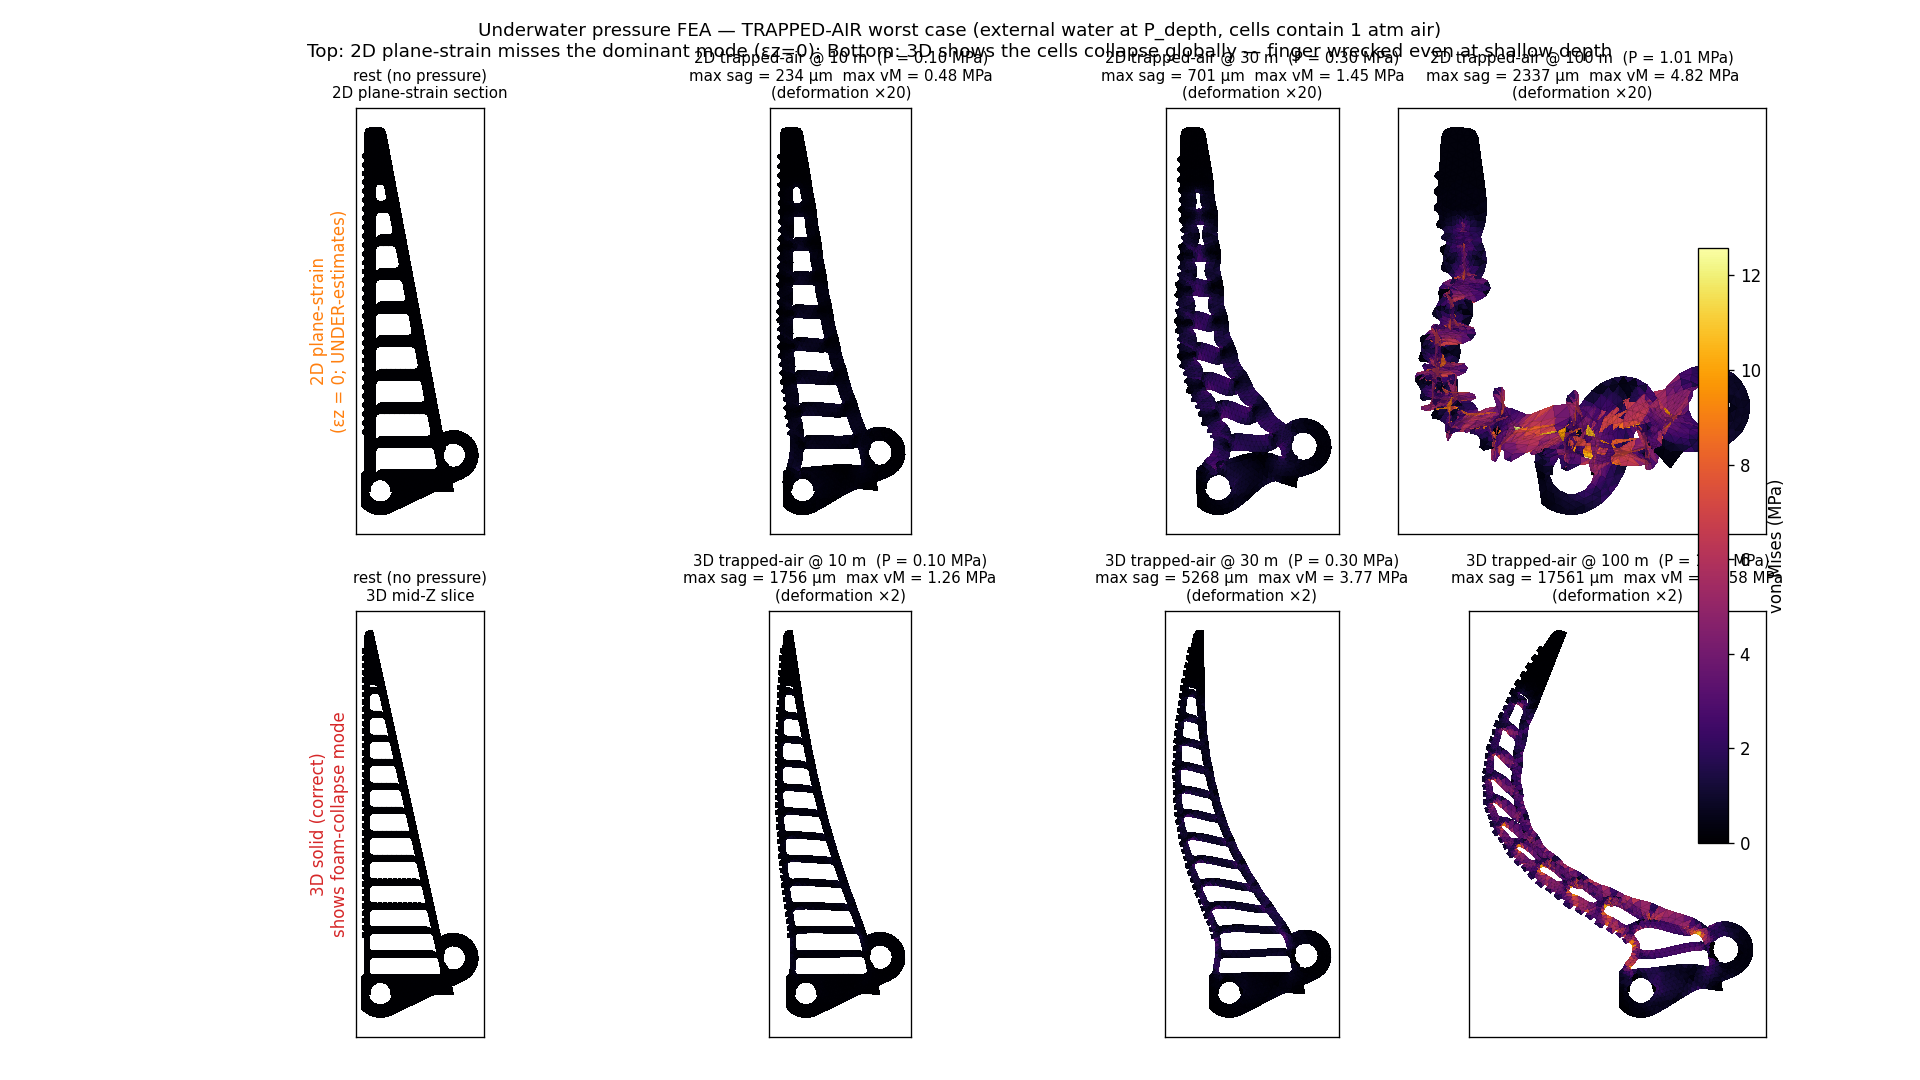
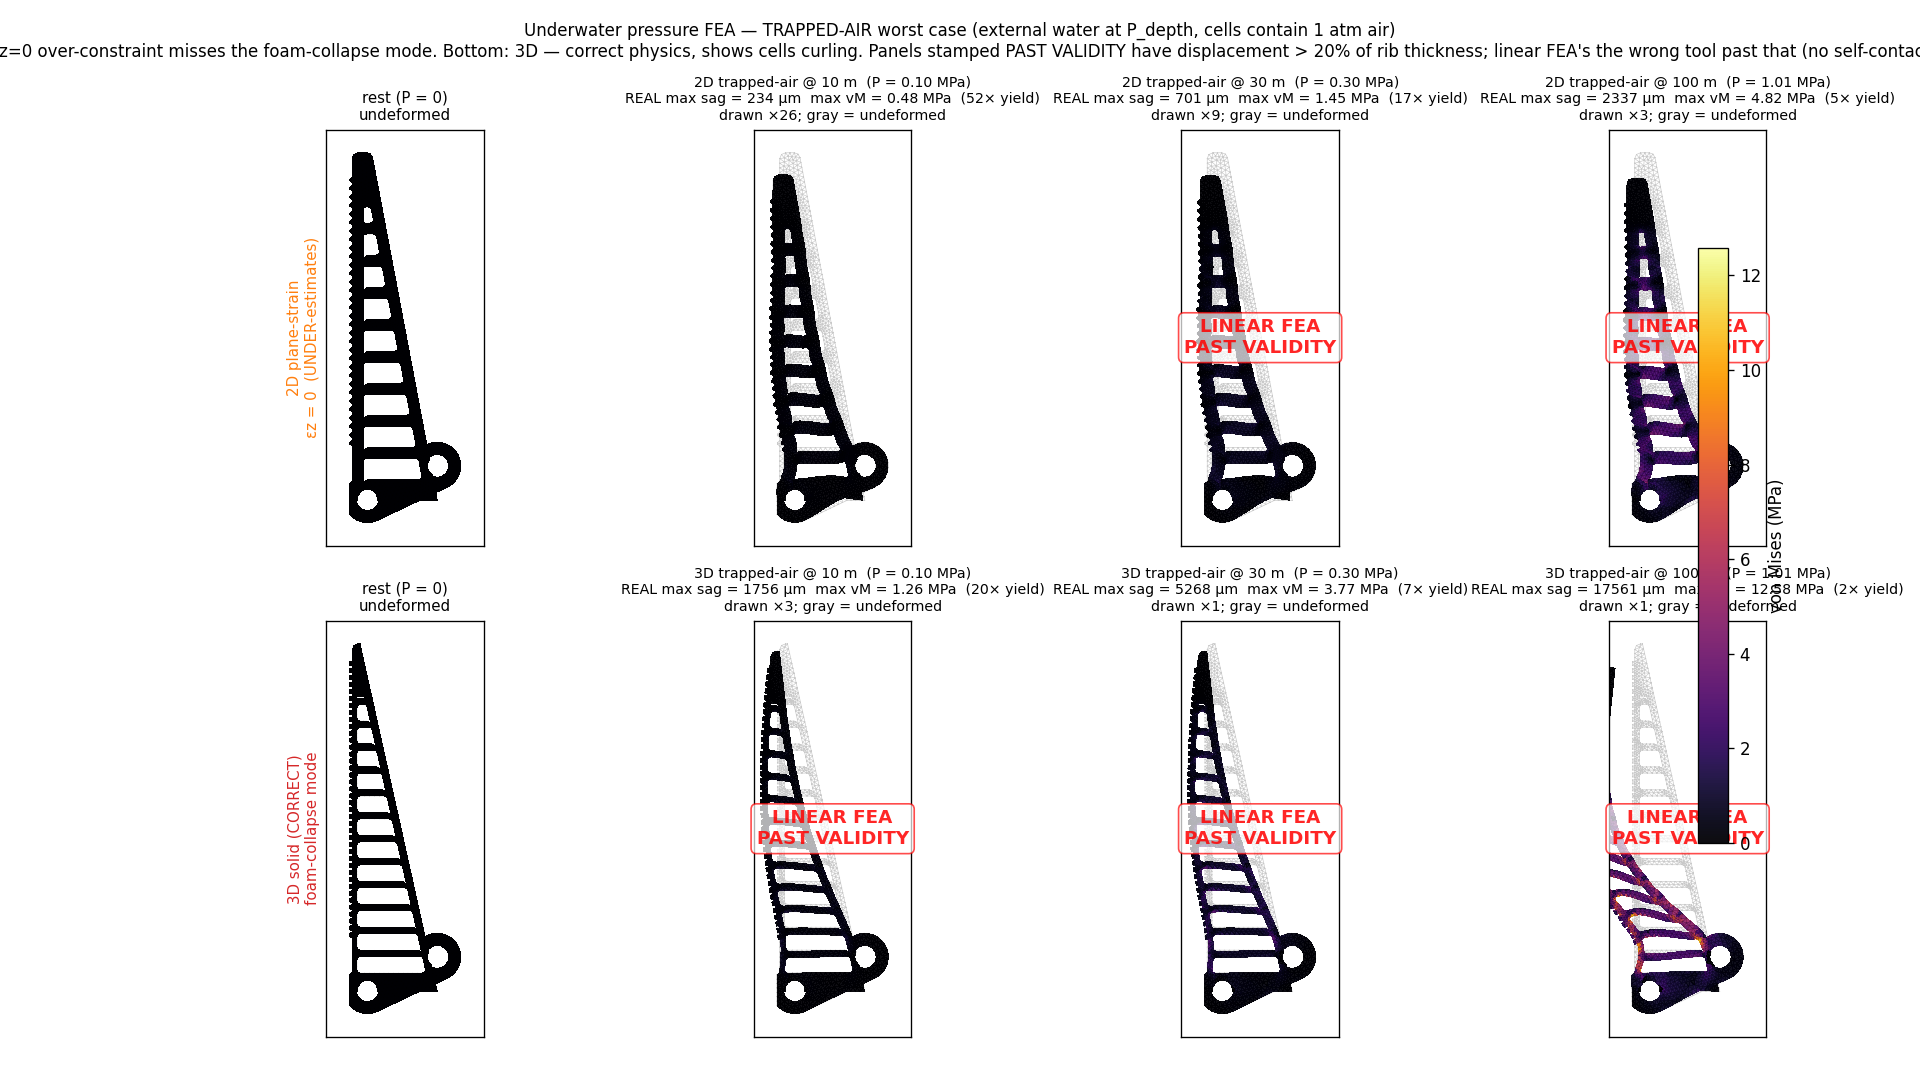
renders: honest underwater FEA visualization (same physics, better viz)
The previous renders multiplied sub-mm displacements by x200 (flooded)
and x20 (2D crush) which made the visualization mislead — the flooded
@user panel looked like the finger had flopped over even though the
real displacement was 0.97 mm on a 90 mm blade, and the 2D crush @user
panel rendered the past-linear-validity solution as spaghetti.

Same FEA solves, no physics changed. Four visualization fixes:

1. Gray undeformed rest-mesh overlaid behind every panel for reference.
   The viewer can see directly how much the colored deformed mesh has
   moved vs the rest position — no need to mentally subtract a x200.

2. Per-panel magnification picked so visible deformation is ~5-6 mm
   (a manageable fraction of the 90 mm blade). Each panel shows its
   mag factor and the REAL displacement in micrometres so the viewer
   knows what's drawn vs what physically happens.

3. Axis limits fixed to the rest bounding box (+ small margin). A
   deformed mesh that exits the box is itself a visual signal that
   the result is past sane.

4. 'LINEAR FEA PAST VALIDITY' red stamp on any panel where max
   displacement exceeds ~20% of the smallest feature thickness
   (1.6 mm rib, so 0.3 mm displacement). The 2D crush @user and
   100m and all 3D crush panels carry this stamp — linear elasticity
   stops being meaningful past that point (no self-contact, no gas
   backpressure).

Title text in each panel now includes REAL displacement + yield-margin
[…]

Changed region(s): [[0.0, 0.0, 1.0, 0.9472]]

diff --git a/fea/scripts/render_underwater_fields.py b/fea/scripts/render_underwater_fields.py
@@ -173,18 +173,34 @@ def solve_2d(P_external, mode, mesh, clamp_nodes, outer_f, inner_f):
     return ux, uy, vm
 
 
-def plot_2d_panel(ax, mesh, ux, uy, vm, mag, title, vmin, vmax):
+def plot_2d_panel(ax, mesh, ux, uy, vm, mag, title, vmin, vmax,
+                  past_validity=False):
+    """Plot deformed mesh colored by vM with undeformed outline overlaid in gray.
+
+    Setting `past_validity=True` adds a watermark so the viewer knows the
+    panel is showing a linear-FEA result that's outside its validity envelope.
+    """
     p = mesh.p; t = mesh.t
+    tri_rest = Triangulation(p[0], p[1], t.T)
+    # undeformed outline (gray, no fill)
+    ax.triplot(tri_rest, color="0.7", lw=0.4, alpha=0.7)
+    # deformed mesh, colored by vM
     xy_def = p.copy()
     xy_def[0] += mag * ux
     xy_def[1] += mag * uy
-    tri = Triangulation(xy_def[0], xy_def[1], t.T)
-    pc = ax.tripcolor(tri, facecolors=vm, cmap="inferno",
-                       vmin=vmin, vmax=vmax, edgecolors="none")
-    ax.triplot(tri, color="black", lw=0.2, alpha=0.3)
+    tri_def = Triangulation(xy_def[0], xy_def[1], t.T)
+    pc = ax.tripcolor(tri_def, facecolors=vm, cmap="inferno",
+                       vmin=vmin, vmax=vmax, edgecolors="none", alpha=0.95)
+    ax.triplot(tri_def, color="black", lw=0.2, alpha=0.4)
     ax.set_aspect("equal")
     ax.set_xticks([]); ax.set_yticks([])
-    ax.set_title(title, fontsize=9)
+    ax.set_title(title, fontsize=8.5)
+    if past_validity:
+        ax.text(0.5, 0.5, "LINEAR FEA\nPAST VALIDITY",
+                transform=ax.transAxes, ha="center", va="center",
+                fontsize=11, color="red", weight="bold", alpha=0.85,
+                bbox=dict(facecolor="white", alpha=0.7, edgecolor="red",
+                           boxstyle="round,pad=0.3"))
     return pc
 
 
@@ -216,47 +232,58 @@ def run_3d_field(P_depth):
 
 
 def plot_3d_midz_slice(ax, p2d, tris, nodes, u, vm_tet, N2, mag,
-                       title, vmin, vmax):
+                       title, vmin, vmax, past_validity=False):
     """Mid-Z slice rendered as the 2D triangulation deformed by the
-    mid-layer displacement and colored by per-tri average vM."""
+    mid-layer displacement and colored by per-tri average vM. The
+    undeformed cross-section outline is overlaid in gray for reference."""
     n_layers = nodes.shape[0] // N2 - 1
     mid_layer = n_layers // 2
     base = mid_layer * N2
     ux = u[3 * (base + np.arange(N2)) + 0]
     uy = u[3 * (base + np.arange(N2)) + 1]
-    # per-tri vM at mid-Z: average over tets whose centroid is at mid-Z layer
-    tet_z = nodes[:, 2][np.array(np.arange(nodes.shape[0]))]
-    tet_z_centroid = nodes[:, 2][np.array(np.arange(nodes.shape[0]))]  # placeholder
-    # easier: just project vM onto 2D tris by aggregating tets at this layer
-    # for each 2D tri, find all 3 tets in the mid-Z prism layer and average vM
+    # per-tri vM at mid-Z: average over the 3 tets of each prism in mid-Z layer
     n_tets_per_prism = 3
     tets_per_layer = tris.shape[0] * n_tets_per_prism
     tets_start = mid_layer * tets_per_layer
-    tets_end = (mid_layer + 1) * tets_per_layer
     vm_tris = np.zeros(tris.shape[0])
     for ti in range(tris.shape[0]):
         vm_tris[ti] = vm_tet[tets_start + ti * 3:tets_start + (ti + 1) * 3].mean()
-    # deformed 2D positions at mid-Z
-    xy_def = p2d.copy().T  # (2, N2)
+    # undeformed outline (gray)
+    tri_rest = Triangulation(p2d[:, 0], p2d[:, 1], tris)
+    ax.triplot(tri_rest, color="0.7", lw=0.4, alpha=0.7)
+    # deformed mesh
+    xy_def = p2d.copy().T
     xy_def[0] += mag * ux
     xy_def[1] += mag * uy
-    tri = Triangulation(xy_def[0], xy_def[1], tris)
-    pc = ax.tripcolor(tri, facecolors=vm_tris, cmap="inferno",
-                       vmin=vmin, vmax=vmax, edgecolors="none")
-    ax.triplot(tri, color="black", lw=0.2, alpha=0.3)
+    tri_def = Triangulation(xy_def[0], xy_def[1], tris)
+    pc = ax.tripcolor(tri_def, facecolors=vm_tris, cmap="inferno",
+                       vmin=vmin, vmax=vmax, edgecolors="none", alpha=0.95)
+    ax.triplot(tri_def, color="black", lw=0.2, alpha=0.4)
     ax.set_aspect("equal")
     ax.set_xticks([]); ax.set_yticks([])
-    ax.set_title(title, fontsize=9)
+    ax.set_title(title, fontsize=8.5)
+    if past_validity:
+        ax.text(0.5, 0.5, "LINEAR FEA\nPAST VALIDITY",
+                transform=ax.transAxes, ha="center", va="center",
+                fontsize=11, color="red", weight="bold", alpha=0.85,
+                bbox=dict(facecolor="white", alpha=0.7, edgecolor="red",
+                           boxstyle="round,pad=0.3"))
     return pc
 
 
 # =============== render sheets ===============
 def render_pressure_sheet():
-    """FLOODED case — show the rest mesh and deformed at 3 depths."""
+    """FLOODED case — show the rest mesh and deformed at 3 depths.
+
+    Honest visualization: gray rest mesh outline OVERLAID on every panel
+    so the viewer sees how small the real deformation is. Per-panel
+    magnification is picked so each panel shows ~5 mm of visible
+    deformation (roughly 1/20 of the 90 mm blade) — comparable across
+    depths without faking the physics.
+    """
     mesh, lm, clamp = load_mesh_2d()
     outer_f, inner_f = classify_2d_loops(mesh)
-    print(f"flooded sheet: mesh {mesh.p.shape[1]} nodes, "
-          f"{mesh.t.shape[1]} tris")
+    print(f"flooded sheet: mesh {mesh.p.shape[1]} nodes")
     cases = []
     for depth in DEPTHS_2D_FLOOD:
         P = RHO_G * depth
@@ -268,34 +295,44 @@ def render_pressure_sheet():
         print(f"  flooded {depth:5.0f} m: max |u| = {disp.max()*1000:.1f} μm, "
               f"max vM = {vm.max():.4f} MPa")
     vmax = max(c["max_vm"] for c in cases)
-    # 1 row × 4 cols: rest + 3 depths
+    # pick magnification so max visible deformation = TARGET_VISIBLE mm
+    TARGET_VISIBLE_MM = 5.0
+    for c in cases:
+        c["mag"] = max(1, int(round(TARGET_VISIBLE_MM * 1000 / c["max_disp_um"])))
+
     fig, axs = plt.subplots(1, 4, figsize=(16, 5))
     p = mesh.p; t = mesh.t
+    # axis limits = rest bbox + margin
+    x_pad = 5; y_pad = 5
+    xlim = (p[0].min() - x_pad, p[0].max() + x_pad)
+    ylim = (p[1].min() - y_pad, p[1].max() + y_pad)
+
     tri0 = Triangulation(p[0], p[1], t.T)
     axs[0].tripcolor(tri0, facecolors=np.zeros(t.shape[1]),
                       cmap="inferno", vmin=0, vmax=vmax, edgecolors="none")
-    axs[0].triplot(tri0, color="black", lw=0.2, alpha=0.4)
+    axs[0].triplot(tri0, color="black", lw=0.2, alpha=0.5)
     axs[0].set_aspect("equal"); axs[0].set_xticks([]); axs[0].set_yticks([])
-    axs[0].set_title("rest (no pressure)\nundeformed Fin Ray section", fontsize=9)
-    # deformation is tiny so magnify it ×200 for visibility
-    MAG = 200
+    axs[0].set_xlim(xlim); axs[0].set_ylim(ylim)
+    axs[0].set_title("rest (P = 0)\nundeformed", fontsize=9)
+
     for i, c in enumerate(cases, start=1):
-        pc = plot_2d_panel(axs[i], mesh, c["ux"], c["uy"], c["vm"], MAG,
-                            f"flooded @ {c['depth']:.0f} m  "
-                            f"(P = {c['P']:.2f} MPa)\n"
-                            f"max |u| = {c['max_disp_um']:.0f} μm  "
-                            f"max vM = {c['max_vm']:.3f} MPa\n"
-                            f"(deformation ×{MAG} for visibility)",
-                            vmin=0, vmax=vmax)
-    # one colorbar
+        title = (f"flooded @ {c['depth']:.0f} m  (P = {c['P']:.2f} MPa)\n"
+                 f"REAL max |u| = {c['max_disp_um']:.0f} μm  "
+                 f"({100 * c['max_disp_um']/1000/90:.2f} % of blade length)\n"
+                 f"max vM = {c['max_vm']:.3f} MPa  "
+                 f"({TPU_YIELD/c['max_vm']:.0f}× yield margin)\n"
+                 f"deformation drawn ×{c['mag']}; gray = undeformed")
+        pc = plot_2d_panel(axs[i], mesh, c["ux"], c["uy"], c["vm"], c["mag"],
+                            title, vmin=0, vmax=vmax)
+        axs[i].set_xlim(xlim); axs[i].set_ylim(ylim)
     cbar = fig.colorbar(pc, ax=axs.ravel().tolist(), fraction=0.02,
                          label="von Mises (MPa)")
     fig.suptitle("Underwater pressure FEA — FLOODED case "
-                 "(water inside Fin Ray cells AND outside skin, "
-                 "at the same pressure)\n"
-                 "Bulk hydrostatic stress σ = −P·I → von Mises ≈ 0 everywhere; "
-                 "finger just uniformly shrinks",
-                 fontsize=11)
+                 "(water inside Fin Ray cells AND outside skin at the same pressure)\n"
+                 "Bulk hydrostatic state σ = −P·I → vM ≈ 0; finger uniformly shrinks. "
+                 "Stress concentration shown is at the clamp pin-bore (where TPU "
+                 "is prevented from shrinking by the rigid pin).",
+                 fontsize=10.5)
     fig.subplots_adjust(top=0.84, bottom=0.04, left=0.02, right=0.92,
                         wspace=0.05)
     fp = os.path.join(PICS, "underwater_pressure_FEA.png")
@@ -306,7 +343,19 @@ def render_pressure_sheet():
 
 def render_crush_sheet():
     """TRAPPED-AIR case — show 2D plane-strain (under-estimate) + 3D
-    mid-Z slice (correct) at each depth side-by-side."""
+    mid-Z slice (correct) at each depth side-by-side.
+
+    Honest visualization rules:
+      - undeformed rest mesh always overlaid in gray
+      - per-row magnification picked so visible deformation is comparable
+      - panels where linear FEA is past its validity envelope (max
+        displacement > ~20% of smallest feature thickness, ~0.3 mm for
+        a 1.6 mm rib) are stamped "LINEAR FEA PAST VALIDITY"
+      - axis limits = rest bbox (deformation that exits the box is a
+        visual cue that the linear-elastic prediction is unphysical)
+    """
+    LINEAR_VALID_LIMIT_UM = 300.0   # ~20% of 1.6 mm rib wall
+
     mesh, lm, clamp = load_mesh_2d()
     outer_f, inner_f = classify_2d_loops(mesh)
     print(f"crush sheet: mesh {mesh.p.shape[1]} nodes")
@@ -315,83 +364,111 @@ def render_crush_sheet():
     for depth in DEPTHS_2D_CRUSH:
         P = RHO_G * depth
         ux, uy, vm = solve_2d(P, "trapped_air", mesh, clamp, outer_f, inner_f)
+        max_disp = float(np.hypot(ux, uy).max() * 1000)
         cases_2d.append(dict(depth=depth, P=P, ux=ux, uy=uy, vm=vm,
-                             max_disp_um=float(np.hypot(ux, uy).max() * 1000),
-                             max_vm=float(vm.max())))
-        print(f"  2D crush @ {depth:5.0f} m: max |u| = "
-              f"{cases_2d[-1]['max_disp_um']:.1f} μm, "
-              f"max vM = {cases_2d[-1]['max_vm']:.3f} MPa")
+                             max_disp_um=max_disp,
+                             max_vm=float(vm.max()),
+                             past_validity=max_disp > LINEAR_VALID_LIMIT_UM))
+        print(f"  2D crush @ {depth:5.0f} m: max |u| = {max_disp:.1f} μm, "
+              f"vM = {vm.max():.3f} MPa "
+              f"{'(past validity)' if max_disp > LINEAR_VALID_LIMIT_UM else ''}")
     # ---- 3D trapped-air ----
     cases_3d = []
     for depth in DEPTHS_3D_CRUSH:
         P = RHO_G * depth
         nodes, tets, u, vm_tet, N2, p2d_3d, tris_3d = run_3d_field(P)
         disp = np.linalg.norm(u.reshape(-1, 3), axis=1)
+        max_disp = float(disp.max() * 1000)
         cases_3d.append(dict(depth=depth, P=P, nodes=nodes, tets=tets,
                               u=u, vm_tet=vm_tet, N2=N2,
                               p2d=p2d_3d, tris=tris_3d,
-                              max_disp_um=float(disp.max() * 1000),
-                              max_vm=float(vm_tet.max())))
-        print(f"  3D crush @ {depth:5.0f} m: max |u| = "
-              f"{cases_3d[-1]['max_disp_um']:.1f} μm, "
-              f"max vM = {cases_3d[-1]['max_vm']:.3f} MPa")
+                              max_disp_um=max_disp,
+                              max_vm=float(vm_tet.max()),
+                              past_validity=max_disp > LINEAR_VALID_LIMIT_UM))
+        print(f"  3D crush @ {depth:5.0f} m: max |u| = {max_disp:.1f} μm, "
+              f"vM = {vm_tet.max():.3f} MPa "
+              f"{'(past validity)' if max_disp > LINEAR_VALID_LIMIT_UM else ''}")
 
-    # ---- common color scale per row (so colors are comparable across depths) ----
-    vmax_2d = max(c["max_vm"] for c in cases_2d)
-    vmax_3d = max(c["max_vm"] for c in cases_3d)
+    # color scales — use the SMALLEST-depth max so colors are comparable
+    # within the in-validity range; clip beyond
+    vmax_2d = max(c["max_vm"] for c in cases_2d if not c["past_validity"]) \
+        if any(not c["past_validity"] for c in cases_2d) else max(c["max_vm"] for c in cases_2d)
+    vmax_3d = max(c["max_vm"] for c in cases_3d if not c["past_validity"]) \
+        if any(not c["past_validity"] for c in cases_3d) else max(c["max_vm"] for c in cases_3d)
+    vmax_shared = max(vmax_2d, vmax_3d)
+
+    # picks magnification to give TARGET_VISIBLE_MM of visible deformation
+    TARGET_VISIBLE_MM = 6.0
+    for c in cases_2d + cases_3d:
+        if c["max_disp_um"] > 1e-9:
+            c["mag"] = max(1, int(round(TARGET_VISIBLE_MM * 1000 / c["max_disp_um"])))
+        else:
+            c["mag"] = 1
 
     fig, axs = plt.subplots(2, 4, figsize=(16, 9))
-    # row 0: 2D plane-strain — rest + 3 depths
     p = mesh.p; t = mesh.t
+    p2d_3d = cases_3d[0]["p2d"]; tris_3d = cases_3d[0]["tris"]
+    # axis limits = rest bbox + margin (same for both rows, since same outline)
+    x_pad = 6; y_pad = 6
+    xlim = (p[0].min() - x_pad, p[0].max() + x_pad)
+    ylim = (p[1].min() - y_pad, p[1].max() + y_pad)
+
+    # row 0: 2D plane-strain
     tri0 = Triangulation(p[0], p[1], t.T)
     axs[0, 0].tripcolor(tri0, facecolors=np.zeros(t.shape[1]),
-                        cmap="inferno", vmin=0, vmax=vmax_2d, edgecolors="none")
-    axs[0, 0].triplot(tri0, color="black", lw=0.2, alpha=0.4)
+                        cmap="inferno", vmin=0, vmax=vmax_shared, edgecolors="none")
+    axs[0, 0].triplot(tri0, color="black", lw=0.2, alpha=0.5)
     axs[0, 0].set_aspect("equal")
     axs[0, 0].set_xticks([]); axs[0, 0].set_yticks([])
-    axs[0, 0].set_title("rest (no pressure)\n2D plane-strain section", fontsize=9)
-    MAG_2D = 20
+    axs[0, 0].set_xlim(xlim); axs[0, 0].set_ylim(ylim)
+    axs[0, 0].set_title("rest (P = 0)\nundeformed", fontsize=9)
+    axs[0, 0].set_ylabel("2D plane-strain\nεz = 0  (UNDER-estimates)",
+                          fontsize=9, color="#ff7f0e")
     for i, c in enumerate(cases_2d, start=1):
-        pc2 = plot_2d_panel(axs[0, i], mesh, c["ux"], c["uy"], c["vm"], MAG_2D,
-                             f"2D trapped-air @ {c['depth']:.0f} m  "
-                             f"(P = {c['P']:.2f} MPa)\n"
-                             f"max sag = {c['max_disp_um']:.0f} μm  "
-                             f"max vM = {c['max_vm']:.2f} MPa\n"
-                             f"(deformation ×{MAG_2D})",
-                             vmin=0, vmax=vmax_2d)
-    axs[0, 0].set_ylabel("2D plane-strain\n(εz = 0; UNDER-estimates)",
-                         fontsize=10, color="#ff7f0e")
-    # row 1: 3D mid-Z slice — rest + 3 depths
-    p2d_3d = cases_3d[0]["p2d"]
-    tris_3d = cases_3d[0]["tris"]
+        title = (f"2D trapped-air @ {c['depth']:.0f} m  (P = {c['P']:.2f} MPa)\n"
+                 f"REAL max sag = {c['max_disp_um']:.0f} μm  "
+                 f"max vM = {c['max_vm']:.2f} MPa  "
+                 f"({TPU_YIELD/max(c['max_vm'], 1e-9):.0f}× yield)\n"
+                 f"drawn ×{c['mag']}; gray = undeformed")
+        pc = plot_2d_panel(axs[0, i], mesh, c["ux"], c["uy"], c["vm"],
+                            c["mag"], title, vmin=0, vmax=vmax_shared,
+                            past_validity=c["past_validity"])
+        axs[0, i].set_xlim(xlim); axs[0, i].set_ylim(ylim)
+
+    # row 1: 3D mid-Z slice
     tri30 = Triangulation(p2d_3d[:, 0], p2d_3d[:, 1], tris_3d)
     axs[1, 0].tripcolor(tri30, facecolors=np.zeros(tris_3d.shape[0]),
-                        cmap="inferno", vmin=0, vmax=vmax_3d, edgecolors="none")
-    axs[1, 0].triplot(tri30, color="black", lw=0.2, alpha=0.4)
+                        cmap="inferno", vmin=0, vmax=vmax_shared, edgecolors="none")
+    axs[1, 0].triplot(tri30, color="black", lw=0.2, alpha=0.5)
     axs[1, 0].set_aspect("equal")
     axs[1, 0].set_xticks([]); axs[1, 0].set_yticks([])
-    axs[1, 0].set_title("rest (no pressure)\n3D mid-Z slice", fontsize=9)
-    MAG_3D = 2
+    axs[1, 0].set_xlim(xlim); axs[1, 0].set_ylim(ylim)
+    axs[1, 0].set_title("rest (P = 0)\nundeformed", fontsize=9)
+    axs[1, 0].set_ylabel("3D solid (CORRECT)\nfoam-collapse mode",
+                          fontsize=9, color="#d62728")
     for i, c in enumerate(cases_3d, start=1):
+        title = (f"3D trapped-air @ {c['depth']:.0f} m  (P = {c['P']:.2f} MPa)\n"
+                 f"REAL max sag = {c['max_disp_um']:.0f} μm  "
+                 f"max vM = {c['max_vm']:.2f} MPa  "
+                 f"({TPU_YIELD/max(c['max_vm'], 1e-9):.0f}× yield)\n"
+                 f"drawn ×{c['mag']}; gray = undeformed")
         pc3 = plot_3d_midz_slice(axs[1, i], c["p2d"], c["tris"], c["nodes"],
-                                  c["u"], c["vm_tet"], c["N2"], MAG_3D,
-                                  f"3D trapped-air @ {c['depth']:.0f} m  "
-                                  f"(P = {c['P']:.2f} MPa)\n"
-                                  f"max sag = {c['max_disp_um']:.0f} μm  "
-                                  f"max vM = {c['max_vm']:.2f} MPa\n"
-                                  f"(deformation ×{MAG_3D})",
-                                  vmin=0, vmax=vmax_3d)
-    axs[1, 0].set_ylabel("3D solid (correct)\nshows foam-collapse mode",
-                         fontsize=10, color="#d62728")
+                                  c["u"], c["vm_tet"], c["N2"], c["mag"],
+                                  title, vmin=0, vmax=vmax_shared,
+                                  past_validity=c["past_validity"])
+        axs[1, i].set_xlim(xlim); axs[1, i].set_ylim(ylim)
+
     cbar = fig.colorbar(pc3, ax=axs.ravel().tolist(), fraction=0.02,
                          label="von Mises (MPa)")
     fig.suptitle("Underwater pressure FEA — TRAPPED-AIR worst case "
                  "(external water at P_depth, cells contain 1 atm air)\n"
-                 "Top: 2D plane-strain misses the dominant mode (εz=0); "
-                 "Bottom: 3D shows the cells collapse globally — finger "
-                 "wrecked even at shallow depth",
-                 fontsize=11)
-    fig.subplots_adjust(top=0.90, bottom=0.04, left=0.04, right=0.92,
+                 "Top: 2D plane-strain — εz=0 over-constraint misses the "
+                 "foam-collapse mode. Bottom: 3D — correct physics, shows "
+                 "cells curling. Panels stamped PAST VALIDITY have "
+                 "displacement > 20% of rib thickness; linear FEA's the "
+                 "wrong tool past that (no self-contact, no gas backpressure).",
+                 fontsize=10)
+    fig.subplots_adjust(top=0.88, bottom=0.04, left=0.04, right=0.92,
                         wspace=0.05, hspace=0.18)
     fp = os.path.join(PICS, "underwater_crush_FEA.png")
     fig.savefig(fp, dpi=120)